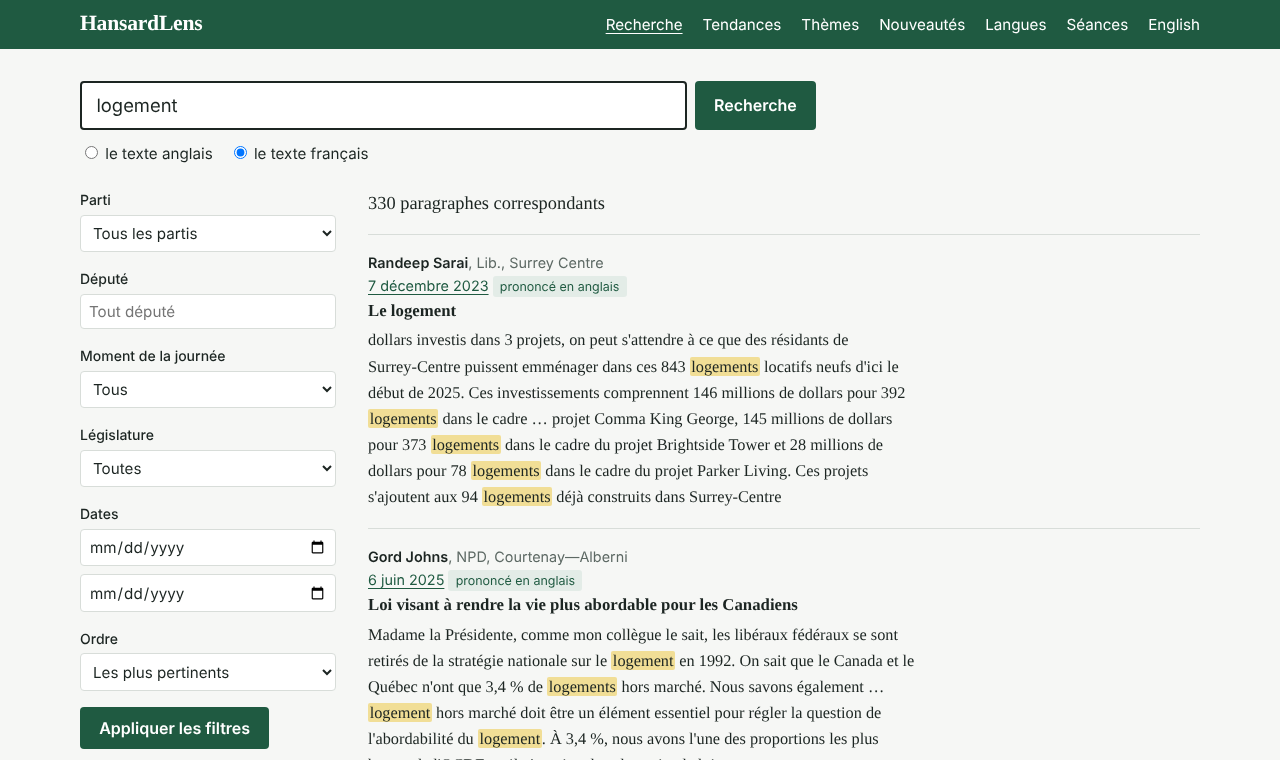
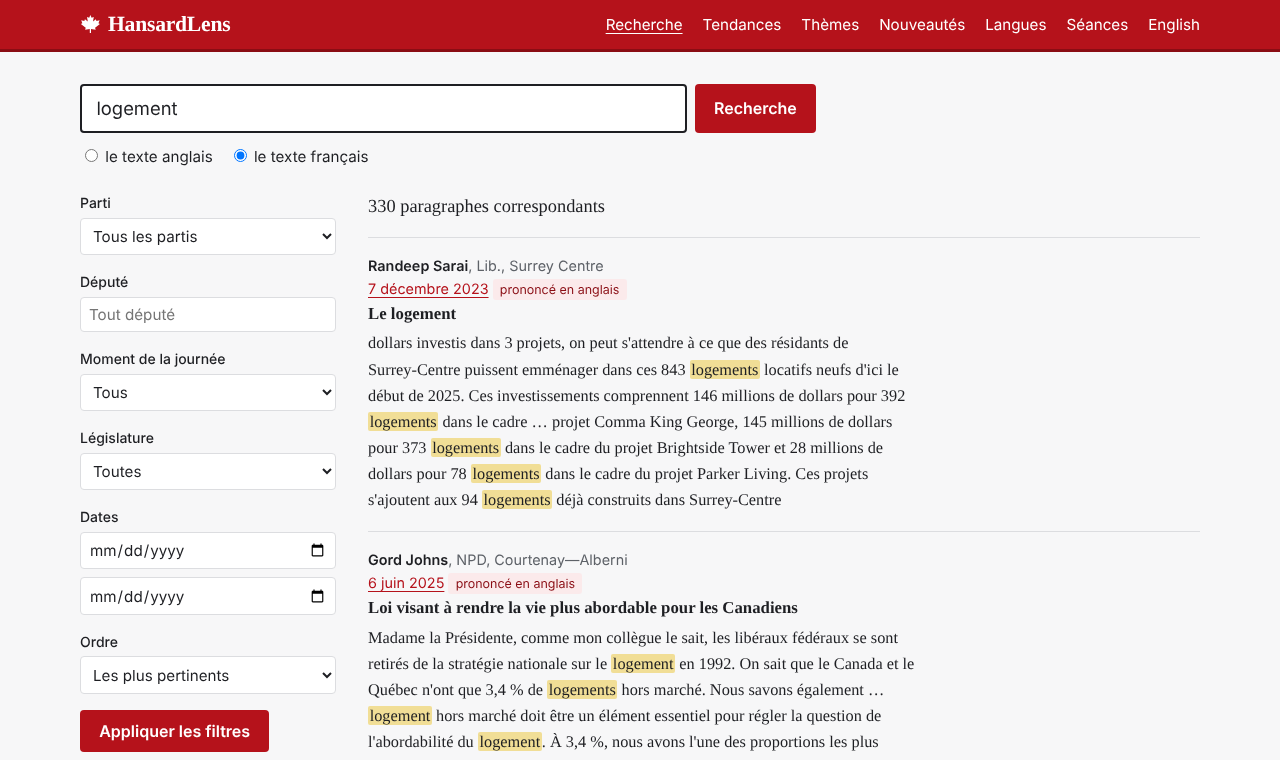
Canadian red look with maple leaf; wrap navigation on phones

diff --git a/static/css/site.css b/static/css/site.css
@@ -1,11 +1,17 @@
 :root {
-  --green: #1f5a41;
-  --green-soft: #e3ece7;
-  --paper: #f6f7f5;
+  /* Canadian red for the frame (header, links, buttons, the spoken-text marker).
+     Data stays neutral: red is also a party colour. Contrast: white on --red 6.9:1,
+     --red text on --paper 6.4:1. */
+  --red: #b5121b;
+  --red-dark: #8a0d14;
+  --red-soft: #fbeaeb;
+  --paper: #f7f7f8;
   --surface: #ffffff;
-  --ink: #1c2522;
-  --muted: #5d6964;
-  --rule: #d8ddd9;
+  --ink: #1e1f23;
+  --muted: #5e6268;
+  --rule: #dcdde0;
+  --data: #4f565c;
+  --data-light: #a6abb0;
   --mark: #f1de96;
   --serif: "Source Serif 4", Georgia, serif;
   --sans: "Work Sans", system-ui, sans-serif;
@@ -20,23 +26,25 @@ body {
   color: var(--ink);
   font: 400 1rem/1.55 var(--sans);
 }
-a { color: var(--green); text-underline-offset: 0.18em; }
+a { color: var(--red); text-underline-offset: 0.18em; }
 a:hover { text-decoration-thickness: 2px; }
-:focus-visible { outline: 3px solid var(--green); outline-offset: 2px; }
+:focus-visible { outline: 3px solid var(--red); outline-offset: 2px; }
 mark { background: var(--mark); color: inherit; padding: 0 0.1em; border-radius: 2px; }
 
 .wrap { max-width: 72rem; margin: 0 auto; padding: 0 1rem; }
 
 /* Header */
-.site-header { background: var(--green); color: #fff; }
+.site-header { background: var(--red); color: #fff; border-bottom: 3px solid var(--red-dark); }
 .site-header .wrap {
-  display: flex; align-items: baseline; justify-content: space-between;
+  display: flex; align-items: center; justify-content: space-between;
   gap: 1rem; flex-wrap: wrap; padding-top: 0.8rem; padding-bottom: 0.8rem;
 }
 .wordmark {
+  display: inline-flex; align-items: center; gap: 0.45rem;
   font: 600 1.35rem/1 var(--serif); color: #fff; text-decoration: none; letter-spacing: -0.01em;
 }
-.site-nav { display: flex; gap: 1.25rem; font-size: 0.95rem; }
+.wordmark .leaf { width: 1.3rem; height: 1.3rem; fill: #fff; flex: none; }
+.site-nav { display: flex; flex-wrap: wrap; gap: 0.35rem 1.25rem; font-size: 0.95rem; }
 .site-nav a { color: #fff; text-decoration: none; }
 .site-nav a:hover, .site-nav a[aria-current="page"] { text-decoration: underline; }
 
@@ -57,12 +65,12 @@ h3 { font-size: 1.1rem; margin: 1.5rem 0 0.5rem; }
 }
 .button {
   font: 600 1rem var(--sans); padding: 0.7rem 1.2rem; border: 0; border-radius: 4px;
-  background: var(--green); color: #fff; cursor: pointer;
+  background: var(--red); color: #fff; cursor: pointer;
 }
-.button:hover { background: #17452f; }
+.button:hover { background: var(--red-dark); }
 .lang-choice { display: flex; gap: 1rem; margin: 0.75rem 0 0; font-size: 0.95rem; }
 .hint { font-size: 0.875rem; color: var(--muted); margin: 0.6rem 0 0; max-width: 46rem; }
-.hint code { font-size: 0.85em; background: var(--green-soft); padding: 0.05em 0.3em; border-radius: 3px; }
+.hint code { font-size: 0.85em; background: #eeeff1; padding: 0.05em 0.3em; border-radius: 3px; }
 
 /* Search layout */
 .search-layout { display: grid; gap: 2rem; grid-template-columns: 1fr; margin-top: 1.5rem; }
@@ -88,17 +96,17 @@ h3 { font-size: 1.1rem; margin: 1.5rem 0 0.5rem; }
 .result-subject a { color: var(--ink); text-decoration: none; }
 .result-subject a:hover { text-decoration: underline; }
 .snippet { font: 400 1.02rem/1.6 var(--serif); max-width: var(--measure); margin: 0; }
-.tag { display: inline-block; font-size: 0.78rem; padding: 0.05rem 0.45rem; border-radius: 3px; background: var(--green-soft); color: var(--green); }
+.tag { display: inline-block; font-size: 0.78rem; padding: 0.05rem 0.45rem; border-radius: 3px; background: var(--red-soft); color: var(--red-dark); }
 
 /* Party breakdown: neutral bars, no party colours on purpose */
 .breakdown { list-style: none; padding: 0; margin: 0; font-size: 0.875rem; }
 .breakdown li { display: grid; grid-template-columns: 3.2rem 1fr 3.5rem; gap: 0.5rem; align-items: center; margin: 0.3rem 0; }
 .bar { height: 0.55rem; background: var(--rule); border-radius: 2px; overflow: hidden; }
-.bar span { display: block; height: 100%; background: var(--muted); }
+.bar span { display: block; height: 100%; background: var(--data); }
 .breakdown .n { text-align: right; font-variant-numeric: tabular-nums; }
 
 .pager { display: flex; gap: 1rem; align-items: center; margin: 2rem 0 0; }
-.notice { background: var(--surface); border-left: 4px solid var(--green); padding: 1rem 1.2rem; max-width: var(--measure); }
+.notice { background: var(--surface); border-left: 4px solid var(--red); padding: 1rem 1.2rem; max-width: var(--measure); }
 .errorlist { color: #8a1c1c; }
 
 /* Speech page: the bilingual record side by side */
@@ -111,15 +119,15 @@ h3 { font-size: 1.1rem; margin: 1.5rem 0 0.5rem; }
 }
 .parallel-head { font-size: 0.85rem; color: var(--muted); padding-bottom: 0.4rem; border-bottom: 2px solid var(--ink); }
 .para-row { padding: 0.9rem 0; border-bottom: 1px solid var(--rule); scroll-margin-top: 1rem; }
-.para-row:target { background: var(--green-soft); }
+.para-row:target { background: var(--red-soft); }
 .para { font: 400 1.05rem/1.65 var(--serif); margin: 0; padding-left: 0.9rem; border-left: 3px solid transparent; }
-.para.original { border-left-color: var(--green); }
+.para.original { border-left-color: var(--red); }
 .para-label { display: block; font: 400 0.75rem var(--sans); color: var(--muted); margin-bottom: 0.2rem; }
 .para.procedural { font-style: italic; color: var(--muted); }
 .secondary { display: none; }
 @media (min-width: 60rem) { .secondary { display: block; } }
 .legend { font-size: 0.875rem; color: var(--muted); display: flex; align-items: center; gap: 0.5rem; margin: 0.75rem 0 0; }
-.legend::before { content: ""; width: 3px; height: 1.1rem; background: var(--green); }
+.legend::before { content: ""; width: 3px; height: 1.1rem; background: var(--red); }
 
 .neighbours { display: flex; justify-content: space-between; gap: 1rem; margin-top: 2rem; font-size: 0.95rem; }
 
@@ -129,7 +137,7 @@ h3 { font-size: 1.1rem; margin: 1.5rem 0 0.5rem; }
 .sitting-table td { border-bottom: 1px solid var(--rule); padding: 0.45rem 0.5rem 0.45rem 0; }
 .sitting-table .num { text-align: right; font-variant-numeric: tabular-nums; }
 .agenda-order { font: 600 1.3rem var(--serif); margin: 2.2rem 0 0.2rem; padding-top: 0.6rem; border-top: 2px solid var(--ink); }
-.agenda-subject { font: 600 1.05rem var(--serif); margin: 1.2rem 0 0.4rem; color: var(--green); }
+.agenda-subject { font: 600 1.05rem var(--serif); margin: 1.2rem 0 0.4rem; color: var(--red-dark); }
 .agenda { list-style: none; margin: 0; padding: 0; max-width: 56rem; }
 .agenda li { padding: 0.45rem 0; border-bottom: 1px solid var(--rule); display: grid; grid-template-columns: 3.5rem 1fr; gap: 0.75rem; }
 .agenda .time { color: var(--muted); font-size: 0.875rem; font-variant-numeric: tabular-nums; }
@@ -157,8 +165,8 @@ h3 { font-size: 1.1rem; margin: 1.5rem 0 0.5rem; }
 .chart .chart-sub { font-size: 0.875rem; color: var(--muted); margin: 0 0 0.75rem; max-width: var(--measure); }
 .chart-plot { position: relative; }
 .chart-svg { display: block; max-width: 100%; height: auto; touch-action: pan-y; }
-.chart-svg:focus-visible { outline: 3px solid var(--green); outline-offset: 2px; }
-.chart-svg .grid { stroke: #eceeec; stroke-width: 1; }
+.chart-svg:focus-visible { outline: 3px solid var(--red); outline-offset: 2px; }
+.chart-svg .grid { stroke: #ececee; stroke-width: 1; }
 .chart-svg .baseline { stroke: #a9b2ae; stroke-width: 1; }
 .chart-svg .tick { fill: var(--muted); font: 400 12px var(--sans); font-variant-numeric: tabular-nums; }
 .chart-svg .end-label { fill: var(--ink); font: 500 12.5px var(--sans); }
@@ -167,7 +175,7 @@ h3 { font-size: 1.1rem; margin: 1.5rem 0 0.5rem; }
 .chart-tip {
   position: absolute; z-index: 2; pointer-events: none; min-width: 11rem; max-width: 17rem;
   background: var(--surface); border: 1px solid var(--rule); border-radius: 4px;
-  box-shadow: 0 2px 8px rgb(28 37 34 / 0.12); padding: 0.5rem 0.65rem; font-size: 0.85rem;
+  box-shadow: 0 2px 8px rgb(30 31 35 / 0.12); padding: 0.5rem 0.65rem; font-size: 0.85rem;
 }
 .tip-head { color: var(--muted); margin-bottom: 0.25rem; }
 .tip-row { margin: 0.2rem 0; }
@@ -179,7 +187,7 @@ h3 { font-size: 1.1rem; margin: 1.5rem 0 0.5rem; }
 .legend-row li { display: flex; align-items: center; gap: 0.4rem; }
 .legend-row .key { width: 16px; height: 2px; }
 .table-view { margin: 0.5rem 0 0.75rem; font-size: 0.875rem; }
-.table-view summary { cursor: pointer; color: var(--green); }
+.table-view summary { cursor: pointer; color: var(--red); }
 .table-scroll { max-height: 22rem; overflow: auto; margin-top: 0.5rem; }
 .data-table { border-collapse: collapse; width: 100%; font-variant-numeric: tabular-nums; }
 .data-table th, .data-table td { padding: 0.3rem 0.6rem 0.3rem 0; border-bottom: 1px solid var(--rule); text-align: right; white-space: nowrap; }
@@ -200,8 +208,8 @@ h3 { font-size: 1.1rem; margin: 1.5rem 0 0.5rem; }
 .stat-line strong { font-size: 1.6rem; font-weight: 600; }
 .hbars { list-style: none; padding: 0; margin: 0.5rem 0; max-width: 44rem; }
 .hbars li { display: grid; grid-template-columns: 4rem 1fr 4rem; gap: 0.75rem; align-items: center; padding: 0.3rem 0; font-size: 0.95rem; }
-.hbars .track { height: 0.8rem; background: #eceeec; border-radius: 2px; overflow: hidden; }
-.hbars .fill { display: block; height: 100%; background: var(--green); border-radius: 0 2px 2px 0; }
+.hbars .track { height: 0.8rem; background: #ececee; border-radius: 2px; overflow: hidden; }
+.hbars .fill { display: block; height: 100%; background: var(--data); border-radius: 0 2px 2px 0; }
 .hbars .val { text-align: right; font-variant-numeric: tabular-nums; }
 .method { font-size: 0.9rem; color: var(--muted); max-width: var(--measure); }
 .sort-links { font-size: 0.875rem; display: flex; gap: 1rem; margin: 0.25rem 0 0.5rem; }
@@ -214,8 +222,8 @@ h3 { font-size: 1.1rem; margin: 1.5rem 0 0.5rem; }
   align-items: center; padding: 0.6rem 0; border-bottom: 1px solid var(--rule);
 }
 .topic-list .topic-name { font: 600 1.05rem var(--serif); }
-.topic-list .track { height: 0.6rem; background: #eceeec; border-radius: 2px; overflow: hidden; }
-.topic-list .fill { display: block; height: 100%; background: var(--green); }
+.topic-list .track { height: 0.6rem; background: #ececee; border-radius: 2px; overflow: hidden; }
+.topic-list .fill { display: block; height: 100%; background: var(--data); }
 .topic-list .val { text-align: right; font-variant-numeric: tabular-nums; font-size: 0.9rem; }
 .topic-list .topic-words { grid-column: 1 / -1; font-size: 0.85rem; color: var(--muted); }
 .term-bars li { grid-template-columns: minmax(8rem, 14rem) 1fr 3rem; }
@@ -223,10 +231,10 @@ h3 { font-size: 1.1rem; margin: 1.5rem 0 0.5rem; }
 @media (min-width: 60rem) { .shift-columns { grid-template-columns: 1fr 1fr; } }
 .shift-table td:first-child { white-space: normal; }
 .shift-table td:last-child, .shift-table th:last-child { width: 30%; text-align: left; }
-.z-bar { display: inline-block; height: 0.55rem; border-radius: 2px; vertical-align: middle; background: var(--green); }
-.z-bar.down { background: var(--muted); }
+.z-bar { display: inline-block; height: 0.55rem; border-radius: 2px; vertical-align: middle; background: var(--data); }
+.z-bar.down { background: var(--data-light); }
 .sr-only { position: absolute; width: 1px; height: 1px; overflow: hidden; clip: rect(0 0 0 0); white-space: nowrap; }
 
-.skip { position: absolute; left: -999px; top: 0; background: var(--surface); color: var(--green); padding: 0.5rem 1rem; z-index: 10; }
+.skip { position: absolute; left: -999px; top: 0; background: var(--surface); color: var(--red); padding: 0.5rem 1rem; z-index: 10; }
 .skip:focus { left: 1rem; }
 .field-label { display: block; font-size: 0.875rem; font-weight: 500; margin: 0 0 0.25rem; }

diff --git a/templates/base.html b/templates/base.html
@@ -8,13 +8,15 @@
   <link rel="preconnect" href="https://fonts.googleapis.com">
   <link rel="preconnect" href="https://fonts.gstatic.com" crossorigin>
   <link rel="stylesheet" href="https://fonts.googleapis.com/css2?family=Source+Serif+4:opsz,wght@8..60,400;8..60,600&family=Work+Sans:wght@400;500;600&display=swap">
+  <link rel="icon" href="{% static 'img/leaf.svg' %}" type="image/svg+xml">
+  <meta name="theme-color" content="#b5121b">
   <link rel="stylesheet" href="{% static 'css/site.css' %}">
 </head>
 <body>
   <a class="skip" href="#main">{% translate "Skip to content" %}</a>
   <header class="site-header">
     <div class="wrap">
-      <a class="wordmark" href="{% url 'home' %}">HansardLens</a>
+      <a class="wordmark" href="{% url 'home' %}"><svg class="leaf" viewBox="0 0 24 24" aria-hidden="true" focusable="false"><path d="M12 1.2 L13.4 4.4 L15.9 3.5 L15 8.6 L18.3 6.1 L19 8 L22.6 7.3 L21.3 10.7 L23 11.5 L17.4 16 L18.1 18.2 L12.7 17.4 L12.7 22 L11.3 22 L11.3 17.4 L5.9 18.2 L6.6 16 L1 11.5 L2.7 10.7 L1.4 7.3 L5 8 L5.7 6.1 L9 8.6 L8.1 3.5 L10.6 4.4 Z"/></svg>HansardLens</a>
       <nav class="site-nav" aria-label="{% translate 'Main' %}">
         {% with name=request.resolver_match.url_name %}
         <a href="{% url 'search' %}" {% if name == 'search' %}aria-current="page"{% endif %}>{% translate "Search" %}</a>

diff --git a/templates/500.html b/templates/500.html
@@ -1,7 +1,7 @@
 <!doctype html>
 <html lang="en">
 <head><meta charset="utf-8"><meta name="viewport" content="width=device-width, initial-scale=1"><title>Server error – HansardLens</title>
-<style>body{font:1rem/1.5 system-ui,sans-serif;margin:0;background:#f6f7f5;color:#1c2522}div{max-width:40rem;margin:4rem auto;padding:0 1rem}a{color:#1f5a41}</style></head>
+<style>body{font:1rem/1.5 system-ui,sans-serif;margin:0;background:#f7f7f8;color:#1e1f23}div{max-width:40rem;margin:4rem auto;padding:0 1rem}a{color:#b5121b}</style></head>
 <body><div>
 <h1>Something went wrong / Une erreur s'est produite</h1>
 <p>The error has been logged. Please try again in a moment.</p>

diff --git a/README.md b/README.md
@@ -25,7 +25,7 @@ sitting day). **API docs:** http://103.99.176.180/hansardlens/api/docs/
 - **Search** either language at paragraph level: accent-insensitive with stemming,
   `"exact phrases"`, `OR` and `-exclude`, with filters for party, member, part of the
   sitting day, Parliament and dates.
-- **Read** any speech with English and French side by side; the column marked in green
+- **Read** any speech with English and French side by side; the column marked in red
   is what was actually said, the other is the official translation.
 - **Trends:** compare up to four terms month by month, per 1,000 speech paragraphs.
 - **Languages:** share of speech given in French, overall, by month, party and member,
